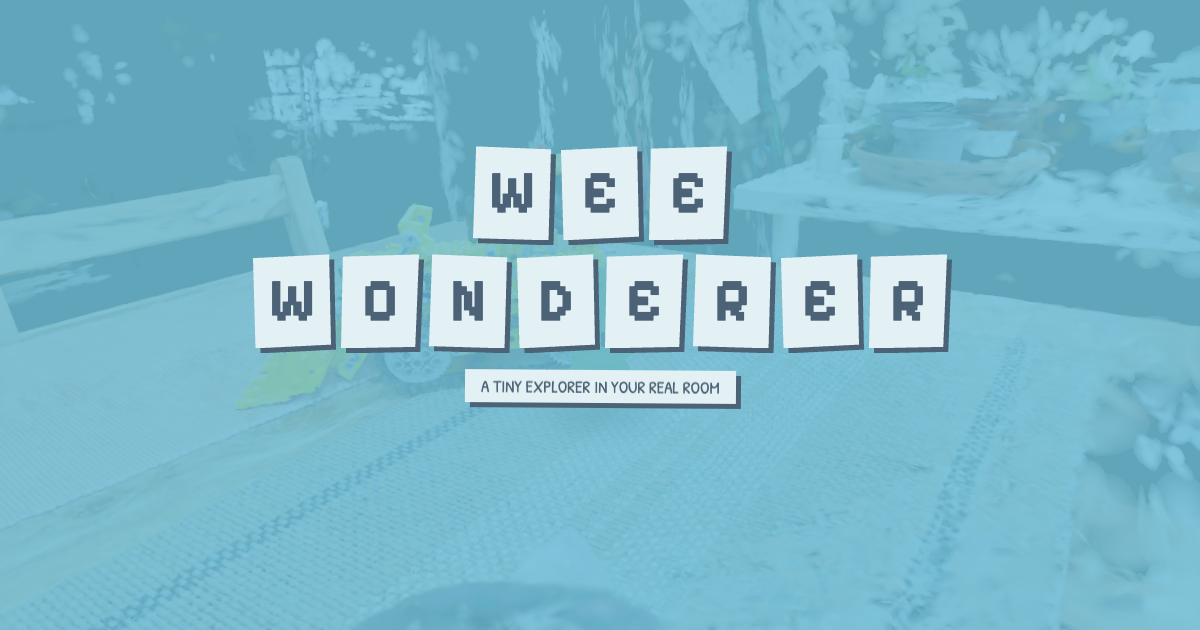
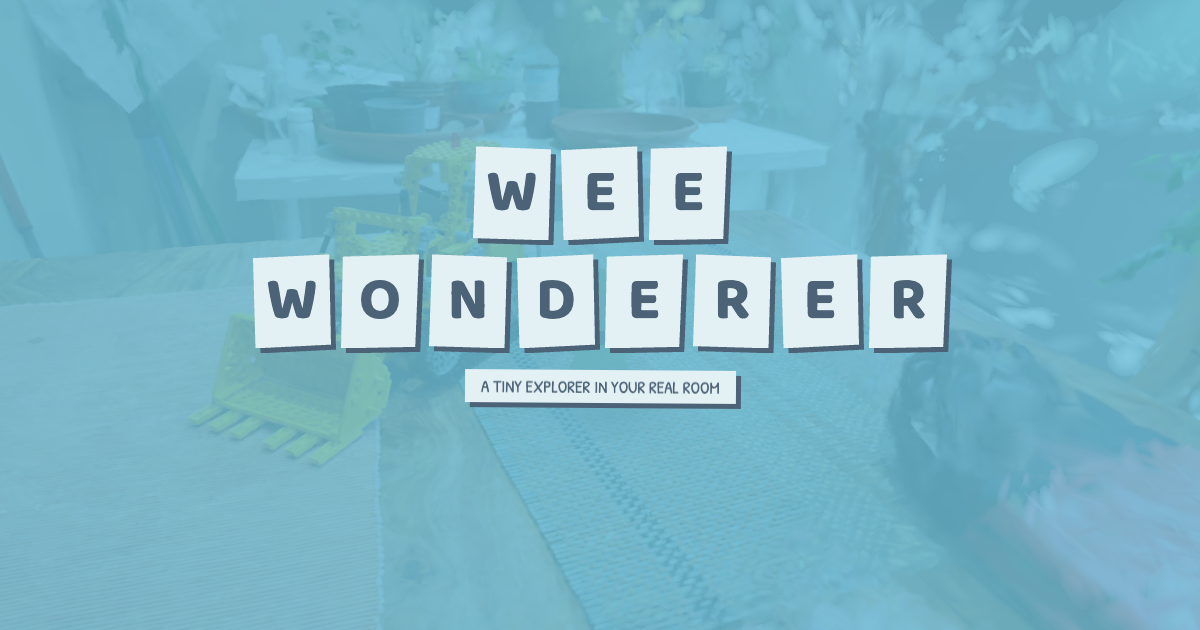
HUD: rounded headlines, a title without the controls, the journal written on its rules
- Headlines in Baloo 2 instead of Pixelify Sans (@fontsource/baloo-2; Pixelify removed)
- The title screen is the name, the tagline and Begin: the controls are in More information
- The journal's left page is written on its rules: every line one rule (--ruled) tall, the
  gaps whole rules, the rules moved onto the writing (--ruled-drop); the fit line follows the
  notes, so it stays on a rule whatever height the stamps give the page
- Social preview retaken

uicheck: 36 checks, all pass.

diff --git a/src/ui/ui.css b/src/ui/ui.css
@@ -10,7 +10,7 @@
   --accent: #f1c84c;        /* the one loud colour: Begin, and whichever tile is open */
   --accent-ink: #5a4310;
   --danger: #b8434e;
-  --font-display: 'Pixelify Sans', ui-monospace, monospace;
+  --font-display: 'Baloo 2', ui-rounded, system-ui, sans-serif;
   --font-body: 'Patrick Hand SC', 'Comic Sans MS', cursive;
   --text: 17px;
   --tile: 58px;             /* side of a square icon tile */
@@ -100,16 +100,21 @@ button.ww-piece[aria-expanded='true'] > .ww-face, .ww-primary > .ww-face { backg
 .ww-rooms .ww-import { margin-top: 6px; padding-top: 10px; border-top: 2px dashed var(--ink-soft); color: var(--ink-soft); }
 
 /* ---- journal: two pages, the room on the left and its games as stamps on the right; one above the other in a narrow window */
-.ww-journal { top: var(--edge); width: min(860px, calc(100% - 2 * var(--edge) - var(--tile) - var(--gap))); max-height: calc(100% - 2 * var(--edge)); overflow-y: auto; display: grid; grid-template-columns: 1fr 1fr; padding: 0; }
-.ww-page { display: flex; flex-direction: column; gap: 10px; padding: 18px 20px; background-image: repeating-linear-gradient(to bottom, transparent 0 calc(1.6em - 2px), var(--rule) calc(1.6em - 2px) 1.6em); }
+.ww-journal { --ruled: 30px; --ruled-drop: -6px; top: var(--edge); width: min(860px, calc(100% - 2 * var(--edge) - var(--tile) - var(--gap))); max-height: calc(100% - 2 * var(--edge)); overflow-y: auto; display: grid; grid-template-columns: 1fr 1fr; padding: 0; }
+.ww-page { display: flex; flex-direction: column; gap: 10px; padding: 18px 20px; background-image: repeating-linear-gradient(to bottom, transparent 0 calc(var(--ruled) - 2px), var(--rule) calc(var(--ruled) - 2px) var(--ruled)); background-origin: content-box; background-position: 0 var(--ruled-drop); }
+/* The written page: every line of it, wrapped ones too, is one ruled line (--ruled) tall, and what
+   is between them whole lines, so the writing sits on the rules; --ruled-drop moves the rules down
+   onto the writing's baseline (set by eye for Patrick Hand SC and Baloo 2). */
+.ww-page-written { gap: 0; }
+.ww-journal .ww-page-written > * { margin: 0; line-height: var(--ruled); } /* (.ww-journal: over the headings' own font shorthand, which sets a line height) */
 .ww-page + .ww-page { border-left: 3px solid var(--rule); }
 @media (max-width: 760px) { .ww-journal { grid-template-columns: 1fr; } .ww-page + .ww-page { border-left: 0; border-top: 3px solid var(--rule); } }
 .ww-page .ww-heading { margin: 0; }
 .ww-journal-room { margin: 0; font: 700 0.85em var(--font-display); letter-spacing: 0.04em; color: var(--ink-soft); }
 .ww-journal-game { font-size: 1.5em; }
-.ww-journal-notes { list-style: none; margin: 0; padding: 0; display: flex; flex-direction: column; gap: 10px; text-transform: none; font-size: 1.1em; }
+.ww-journal-notes { list-style: none; padding: 0; text-transform: none; font-size: 1.1em; }
 /* how the picked game fits this room, at the foot of the page */
-.ww-journal-here { margin: auto 0 0; padding-top: 10px; border-top: 2px dashed var(--rule); text-transform: none; }
+.ww-page-written > .ww-journal-here { margin-top: var(--ruled); text-transform: none; } /* a blank line below the notes */
 .ww-journal-here[data-state='notHere'], .ww-journal-here[data-state='later'] { color: var(--ink-soft); }
 .ww-stamps { display: grid; grid-template-columns: repeat(3, minmax(0, 1fr)); gap: var(--gap); }
 .ww-stamp { display: flex; flex-direction: column; align-items: center; justify-content: center; gap: 4px; aspect-ratio: 9 / 8; padding: 6px; border: 3px solid currentColor; background: none; font: 700 0.8em/1.15 var(--font-display); letter-spacing: 0.03em; text-align: center; rotate: calc(-1.5deg * var(--wonk)); }
@@ -177,9 +182,6 @@ button.ww-piece[aria-expanded='true'] > .ww-face, .ww-primary > .ww-face { backg
 /* Only where the main pointer is a finger and nothing can hover: a phone or tablet, where there are no keys to move with. */
 .ww-touch-note { display: none; }
 @media (hover: none) and (pointer: coarse) { .ww-title .ww-touch-note { display: block; } }
-.ww-title .ww-keys-note { display: flex; flex-wrap: wrap; justify-content: center; gap: 6px 14px; }
-/* No keys on a touch screen, so no reminder of them. */
-@media (hover: none) and (pointer: coarse) { .ww-title .ww-keys-note { display: none; } }
 .ww-begin > .ww-face { height: var(--tile); padding: 0 34px; font: 700 1.5em var(--font-display); letter-spacing: 0.04em; }
 
 @media (prefers-reduced-motion: reduce) {

diff --git a/src/ui/hud.ts b/src/ui/hud.ts
@@ -3,8 +3,8 @@
 // DOM and what is open; the app tells it what happened and is called back with
 // what the player asked for. See context/ui.md.
 
-import '@fontsource/pixelify-sans/500.css';
-import '@fontsource/pixelify-sans/700.css';
+import '@fontsource/baloo-2/500.css';
+import '@fontsource/baloo-2/700.css';
 import '@fontsource/patrick-hand-sc/400.css';
 import './ui.css';
 import { el, piece, tile } from './paper';
@@ -159,7 +159,7 @@ export function createHud(opts: HudOptions): Hud {
   const characters = pickList(characterList, (id) => { unfold(null); opts.onPickCharacter(id); });
   opts.characters.forEach(characters.add);
 
-  // --- the controls: keys and what they do, in the More information card (and the first two on the title) ---
+  // --- the controls: keys and what they do, in the More information card ---
   const keysLine = (into: HTMLElement, keys: string[], does: string) => {
     const line = into.appendChild(el('span', 'ww-keys'));
     for (const k of keys) line.appendChild(el('kbd', 'ww-key', k));
@@ -236,10 +236,6 @@ export function createHud(opts: HudOptions): Hud {
   title.appendChild(el('p', 'ww-card', 'A tiny explorer in your real room'));
   // The figurine moves by keyboard only, so a touch screen says so up front (shown by ui.css on touch-only devices).
   title.appendChild(el('p', 'ww-card ww-touch-note', 'Best on a computer with a keyboard'));
-  // The controls are folded away in play, so the title says how to move (not on a touch screen, which has no keys: ui.css).
-  const keysNote = title.appendChild(el('p', 'ww-card ww-keys-note'));
-  keysLine(keysNote, ['W', 'A', 'S', 'D'], 'to walk');
-  keysLine(keysNote, ['Space'], 'to jump');
   const begin = piece('button', 'ww-begin ww-primary', 0);
   begin.face.textContent = 'Begin';
   title.appendChild(begin.holder);

diff --git a/src/ui/credits.ts b/src/ui/credits.ts
@@ -29,7 +29,7 @@ const CREDITS: Credit[] = [
     note: ['Trained into splats with msplat by ', { text: 'alexmkwizu', href: 'https://huggingface.co/datasets/alexmkwizu/gaussian_training_datasets' }, ', then cleaned and converted for this site'],
   },
   { what: 'Record Player Table', who: ['Captured by Samantha Lee, with SpAItial'] },
-  { what: 'Type', who: ['Pixelify Sans and Patrick Hand SC, ', { text: 'SIL Open Font License', href: 'https://openfontlicense.org' }] },
+  { what: 'Type', who: ['Baloo 2 and Patrick Hand SC, ', { text: 'SIL Open Font License', href: 'https://openfontlicense.org' }] },
   { what: 'Built with', who: [{ text: 'three.js', href: 'https://threejs.org' }] },
 ];
 

diff --git a/src/ui/journal.ts b/src/ui/journal.ts
@@ -19,7 +19,7 @@ const TAGS: Record<JournalGame['state'], string> = { open: '', notHere: 'not her
 export function createJournal(onPlay: (id: string) => void): { el: HTMLElement; show(page: JournalPage | null): void } {
   const card = el('section', 'ww-card ww-journal');
   card.setAttribute('aria-label', 'Journal');
-  const left = card.appendChild(el('div', 'ww-page'));
+  const left = card.appendChild(el('div', 'ww-page ww-page-written'));
   const room = left.appendChild(el('p', 'ww-journal-room'));
   const name = left.appendChild(el('h2', 'ww-heading ww-journal-game'));
   const notes = left.appendChild(el('ul', 'ww-journal-notes'));

diff --git a/context/ui.md b/context/ui.md
@@ -1,7 +1,7 @@
 # UI
 
 The on-screen UI is cut paper laid over the scan: off-white pieces with lopsided
-hand-cut edges and a hard slate shadow, pixel lettering for labels and printed
+hand-cut edges and a hard slate shadow, rounded lettering (Baloo 2) for labels and printed
 capitals for text. The reference is the HUD of Messenger (messenger.abeto.co):
 almost nothing on screen, a few small icon tiles at the window's edge, and cards
 that unfold from them.
@@ -19,8 +19,12 @@ that unfold from them.
   side by side (one above the other in a narrow window). The right page is the games the room
   can be played as, as stamps: one it can be played as, one the room's shape does not suit
   ("not here", its Play greyed), one not made yet ("later"). The left page is the game picked:
-  the room's name small above the game's, what the game is in the Wonderer's own words, and at
-  the foot how it fits this room (why not, when it does not). It describes the game, not the
+  the room's name small above the game's, what the game is in the Wonderer's own words, and a
+  line below that, how it fits this room (why not, when it does not). The left page is written on
+  its rules: every line of it is one rule (`--ruled`) tall and what is between them whole rules,
+  so wrapped lines stay on the rules too; that is why the fit line follows the notes rather than
+  sitting at the foot, where the page's height (set by the stamps beside it) would put it between
+  rules. `--ruled-drop` moves the rules onto the writing's baseline, set by eye for these fonts. It describes the game, not the
   room's shape (Sam: a page of observations about the room said nothing about what to play).
   Picking a stamp shows it on the left; Play folds the journal and calls `onPlayGame`. It opens only from its tile:
   never by itself, and it has no key (a key would be handled in `character.ts`'s `keyEvent`).
@@ -35,9 +39,9 @@ that unfold from them.
   `scripts/character-thumbs.mjs` (through `thumbs.html`, `src/dev-pages/character-thumbs.ts`):
   run it after adding or changing a character. At most one is open;
   `Escape` folds it. `` ` `` toggles Debug.
-- **The controls** are not on screen in play: they are in the More information card, so the
-  view is the room alone. The title screen says how to walk and jump instead
-  (`.ww-keys-note`, hidden on touch screens, which have no keys).
+- **The controls** are not on screen, in play or on the title screen: they are in the More
+  information card, so the view is the room alone. (The title once showed how to walk and
+  jump; Sam took it off, to keep the title to the name.)
 - **Status note** (top-centre).
 - **Loading view** while a scan is fetched and its collision built, and until the
   figurine has loaded. There is no room yet: the figurine stands idle on a rippling
@@ -161,8 +165,8 @@ was set after the fill, about 0.2 s later.
   **`public/apple-touch-icon.png`** is the same at 180 px on the `--sky` colour, for an
   iPhone home screen.
 - **`public/social-preview.png`** (1200 × 630) is the title screen over Kitchen,
-  screenshot headless at that size with the HUD's corner tiles and any on-screen key
-  hints hidden and Begin made invisible. Retake it the same way when the title screen changes. The `og:image`
+  screenshot headless at that size with the HUD's corner tiles hidden (`.ww-corner`) and
+  Begin made invisible, once the room has arrived (`__dbg.reveal` 1, `?tel=1`). Retake it the same way when the title screen changes. The `og:image`
   address in `index.html` is the public site's (`context/deploy.md`): a link preview
   needs a full address.
 

diff --git a/CREDITS.md b/CREDITS.md
@@ -49,7 +49,7 @@ SpAItial.
 
 ## Type
 
-[Pixelify Sans](https://fonts.google.com/specimen/Pixelify+Sans) and
+[Baloo 2](https://fonts.google.com/specimen/Baloo+2) and
 [Patrick Hand SC](https://fonts.google.com/specimen/Patrick+Hand+SC), both under the
 [SIL Open Font License 1.1](https://openfontlicense.org), served from the app's own build
 through Fontsource.
